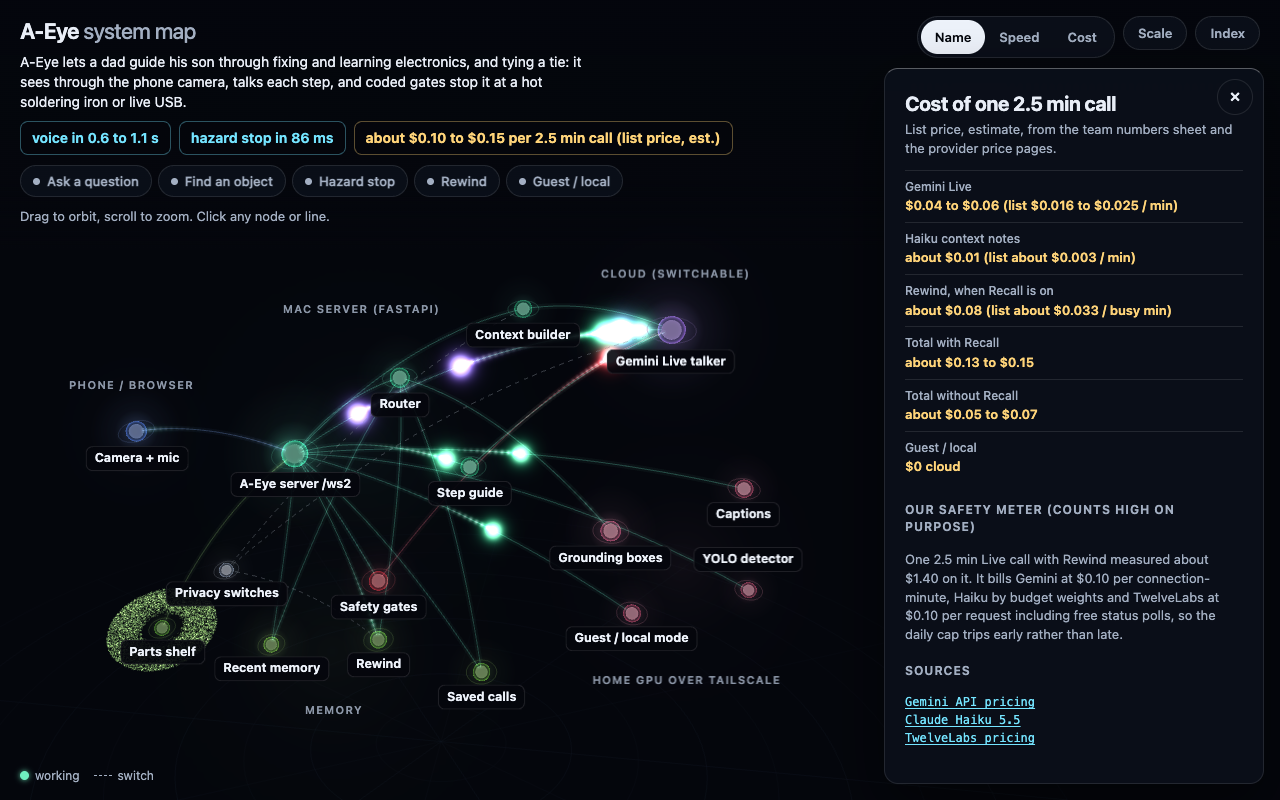
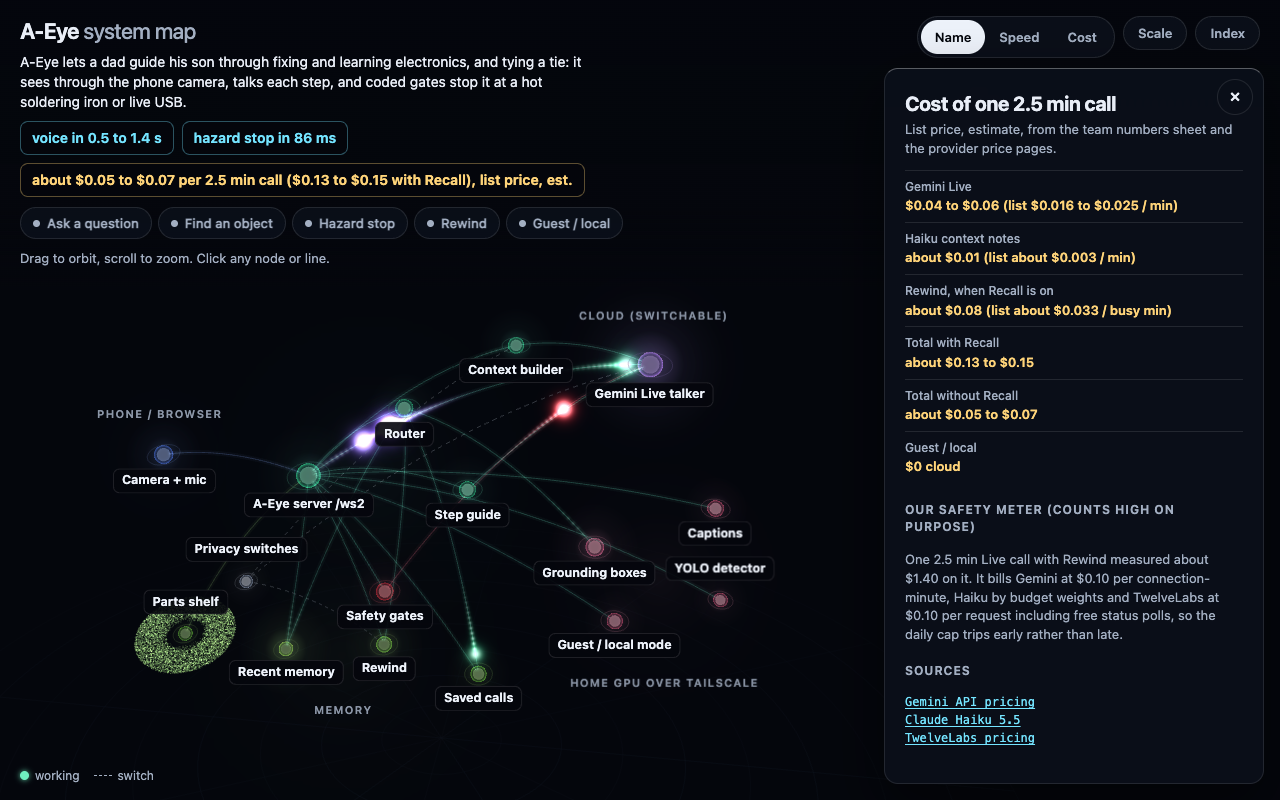
System map: number check against sources; chip at list price without and with Recall
Voice 0.5 to 1.4 s, box about 2 s, time scope 91% of 300 independent and 93 of 100
repo held-out, Guest / local first voice about 1.0 s; monthly list costs labelled
estimate. Chip: about $0.05 to $0.07 per 2.5 min call ($0.13 to $0.15 with Recall).

Verified: node --test client-web/map-data.test.mjs (7 pass); headless Chromium on Metal,
recaptured 1536/1280/390 headline and affected panels, no console errors.

diff --git a/docs/results/system-map/shoot.py b/docs/results/system-map/shoot.py
@@ -20,6 +20,8 @@ SHOTS = [
     ('1280-flow-guest', 1280, 800, '?flow=guest'),
     ('390-scale', 390, 844, '?panel=scale'),
     ('1280-cost-panel', 1280, 800, '?panel=cost'),
+    ('1280-ground-panel', 1280, 800, '?select=ground'),
+    ('1280-gemini-panel', 1280, 800, '?select=gemini'),
     ('390-cost-panel', 390, 844, '?panel=cost'),
     ('390-privacy-panel', 390, 844, '?select=privacy'),
     ('390-flow-guest', 390, 844, '?flow=guest'),

diff --git a/docs/results/system-map.md b/docs/results/system-map.md
@@ -4,6 +4,15 @@ Interactive 3D map of the A-Eye system for judges, served at `/map.html` next to
 per call, all driven by one JSON file. Branch `pkg/system-map`; the commit sha is in the git log of that branch (this
 file is part of that commit).
 
+## Number check (2026-10-25)
+
+Chip: "about $0.05 to $0.07 per 2.5 min call ($0.13 to $0.15 with Recall), list price, est.". Changed: voice 0.6 to
+1.1 s -> 0.5 to 1.4 s; box 1.8 to 2.3 s -> about 2 s (throughput now about 0.5 boxes / s, estimate); time scope 86% ->
+91% on the independent 300 set; repo held-out 96 -> 93 of 100 (file `router/results/scope_heldout_eval.json`; the
+coordinator's note said 92); Guest / local first voice 1630 ms (classic path) -> about 1.0 s (latest acceptance
+run); monthly list costs now say estimate. Unchanged and sourced: hazard 86 ms, router 45.7 ms, lane model 96 / Haiku
+97 / regex 64 of 100 and 43 / 803.3 ms (`router/results/heldout_eval.json`), code limits, sheet prices.
+
 ## Cost chip round (owner, 2026-10-25)
 
 The headline chip now reads "about $0.10 to $0.15 per 2.5 min call (list price, est.)" and opens a Cost panel:
